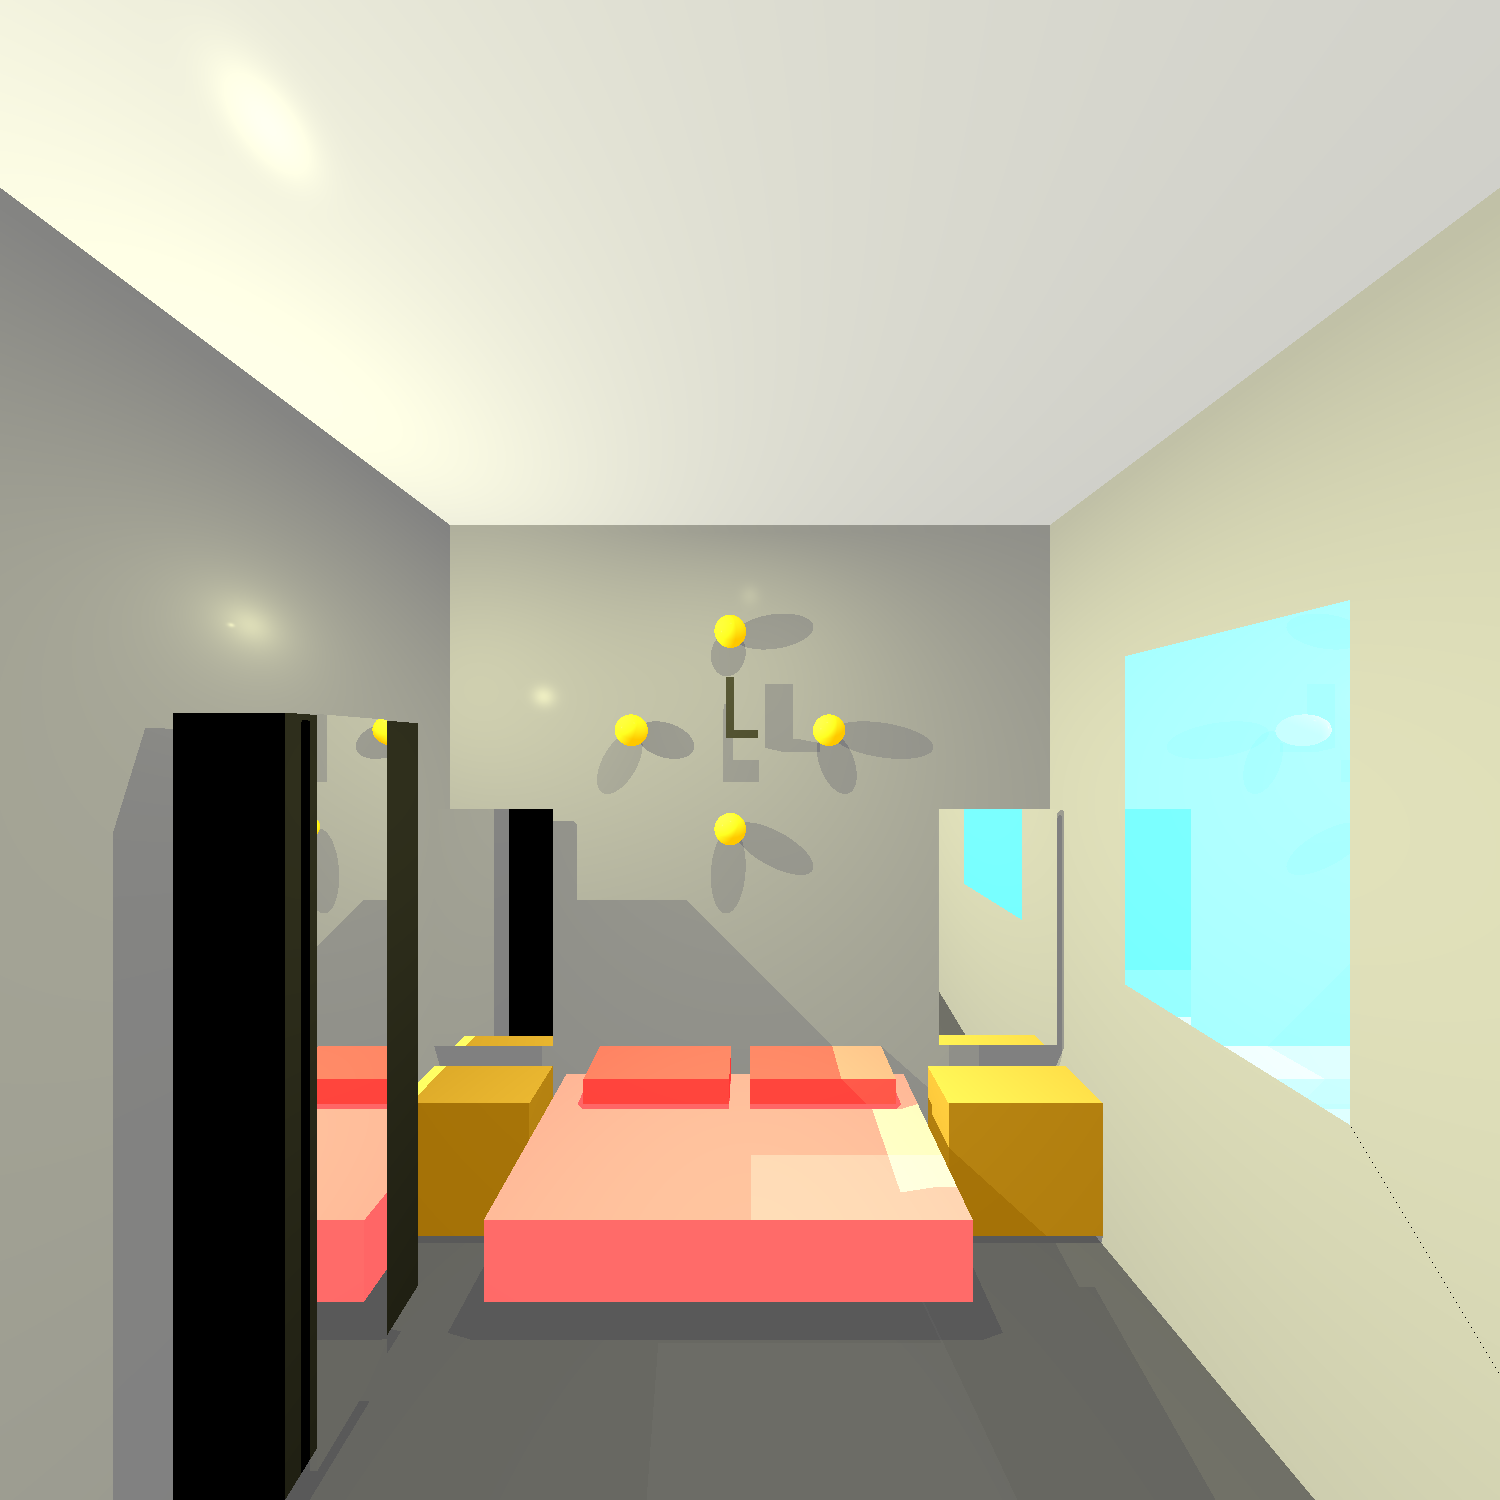
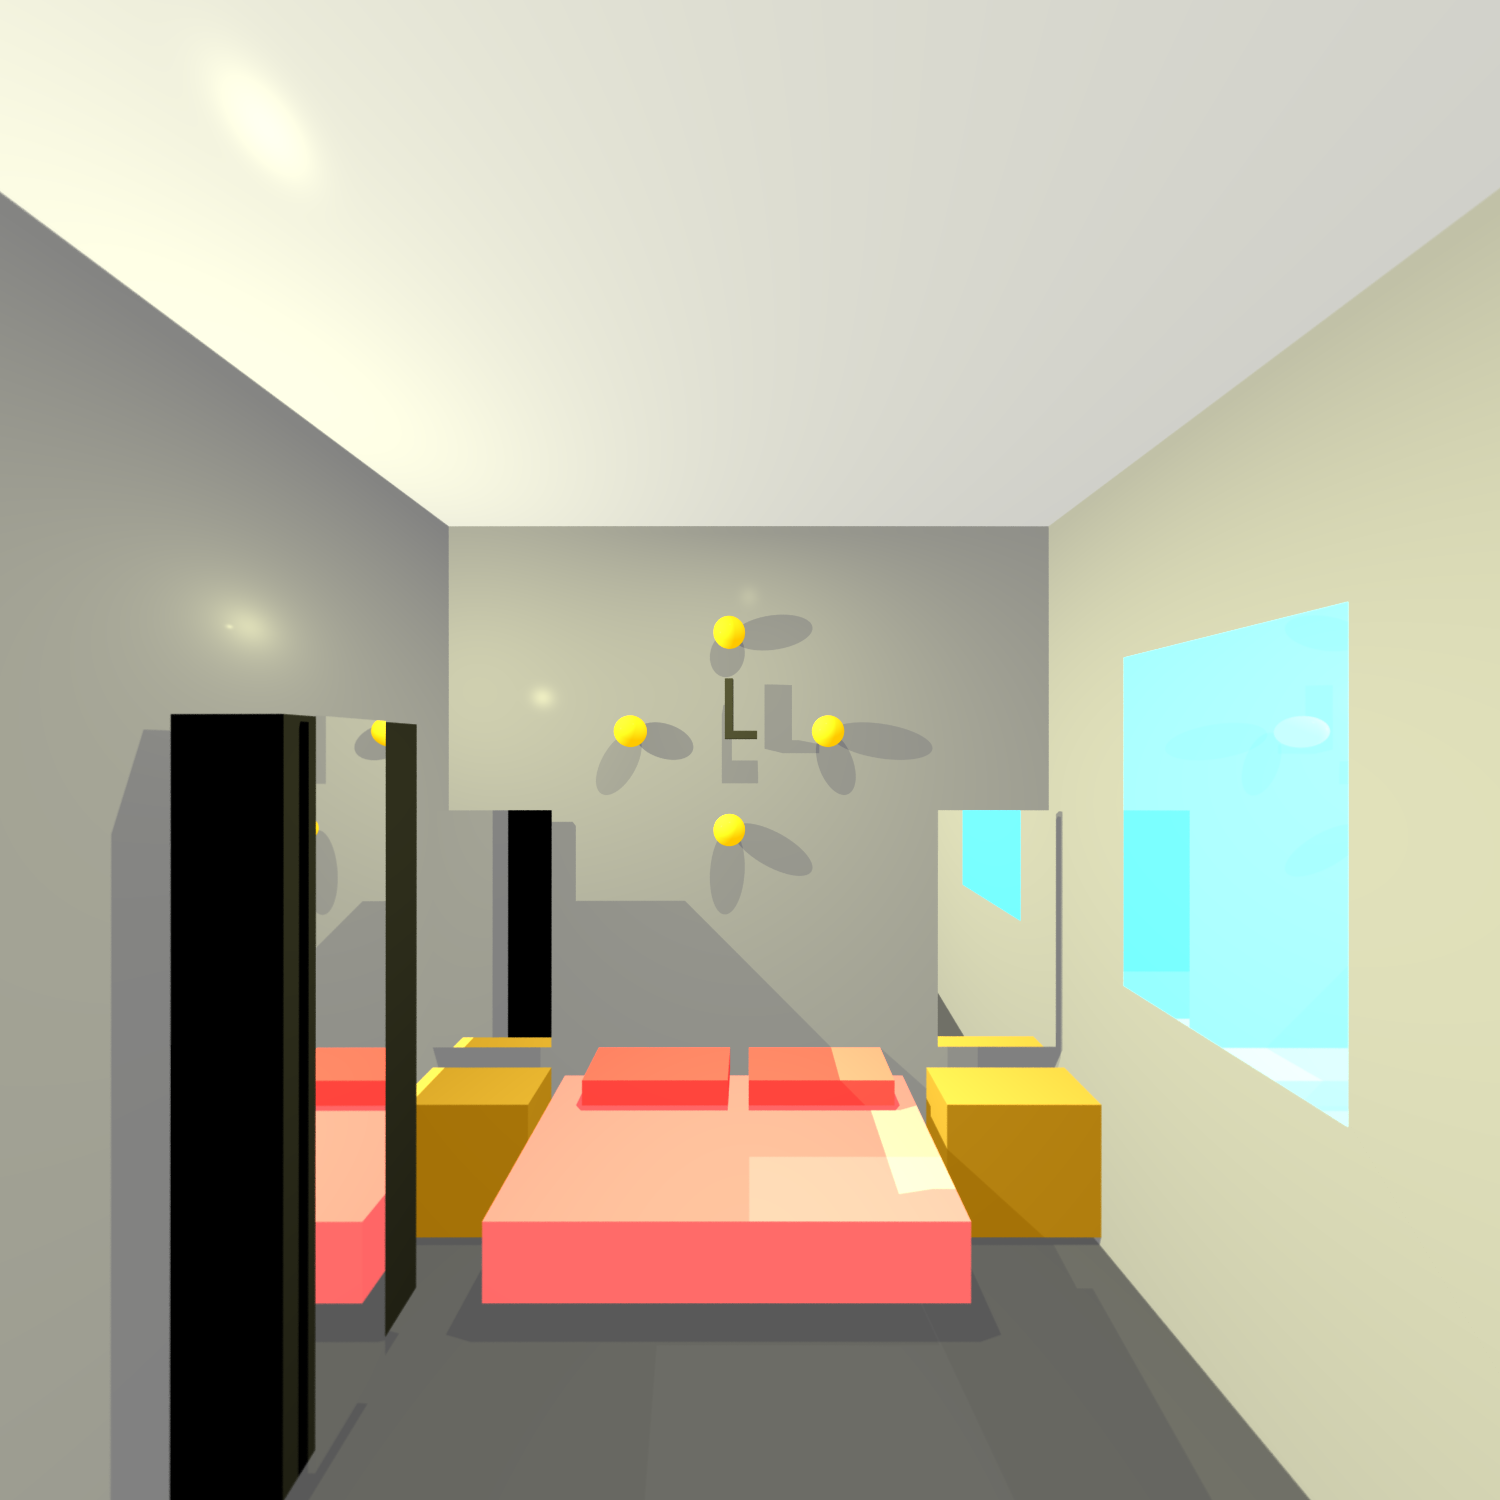
finish of minip 2: run-time improvement (multithreading and BVH)

diff --git a/unitTests/renderer/AntiAliasingTests.java b/unitTests/renderer/AntiAliasingTests.java
@@ -22,7 +22,7 @@ public class AntiAliasingTests {
     public void AA_test() {
 
 
-        int resolution = 1500, sampleperpixle = 81;
+        int resolution = 1000, sampleperpixle = 9;
         Camera camera = new Camera(new Point(0,-200,1000), new Vector(0, 1, 0), new Vector(0, 0, 1)) //
                 .setVPSize(400, 400).setVPDistance(100);
         camera.setNumberOfRaysInPixel(sampleperpixle); // Turn on/off the test by changing the amount
@@ -36,11 +36,21 @@ public class AntiAliasingTests {
         Color LightYellow = new Color(254,254,153);
 
         // spotlight in the middle of the ceiling direct to the floor
-        scene.getLights().add(new SpotLight(LightYellow, new Point(0, 400, 1580), new Vector(0, 0, -1)).setKc(1.6));
-        // pointLight in the left wall (above the closet) direct to the other wall
-        scene.getLights().add(new PointLight(LightYellow, new Point(-770, 400, 1200)).setKc(1.5));
+        scene.getLights().add(new SpotLight(LightYellow, new Point(0, 200, 1680), new Vector(0, 0, -1)).setKc(1.4).setRadius(30d));
+        Box cielinglight = new Box(500,30,250,new Point(-250,200,1580),new Color(YELLOW));
+
+
+        //bed spotlight's
+         scene.getLights().add(new SpotLight(LightYellow, new Point(200, 800, 400), new Vector(0, 0, -1)).setKc(1.25).setRadius(30d)); // right bed light
+        Sphere spotBedRight = new Sphere(new Point(200,800,400),40);
+        scene.getLights().add(new SpotLight(LightYellow, new Point(-300, 800, 400), new Vector(0, 0, -1)).setKc(1.25).setRadius(30d)); // left bed light
+        Sphere spotBedLeft = new Sphere(new Point(-300,800,400),40);
+
+     // pointLight in the left wall (above the closet) direct to the other wall
+        scene.getLights().add(new PointLight(LightYellow, new Point(-770, 400, 1200)).setKc(1.5).setRadius(30d));
+        Sphere pointSphere = new Sphere(new Point(-800,400,1200),40);
+
         // ball light
-//        scene.getLights().add(new PointLight(LightYellow, new Point(-0, 700, 600)).setKc(3));
         scene.getLights().add(new DirectionalLight(new Color(WHITE), new Vector(-0.75,0,-1)));
 
 
@@ -56,15 +66,18 @@ public class AntiAliasingTests {
         Material cube = new Material().setKd(0.6).setShininess(300).setKs(0.5);
         Material mirror = new Material().setKr(1);
         Material ball = new Material().setKd(0.5).setKs(0.5).setShininess(300);
+        Material lightBalls = new Material().setKt(0.9).setKd(0.9).setShininess(300);
 
-        Sphere s12 =  new Sphere(new Point(-50,750,1300),40);s12.setEmission(new Color(ORANGE)).setMaterial(ball);
-        Sphere s3 =  new Sphere(new Point(200,750,1050),40); s3.setEmission(new Color(ORANGE)).setMaterial(ball);
-        Sphere s6 =  new Sphere(new Point(-50,750,800),40);s6.setEmission(new Color(ORANGE)).setMaterial(ball);
-        Sphere s9 =  new Sphere(new Point(-300,750,1050),40);s9.setEmission(new Color(ORANGE)).setMaterial(ball);
+        // clock spheres
+        Sphere s12 =  new Sphere(new Point(-50,750,1300),40);s12.setEmission(new Color(200,0,0)).setMaterial(ball);
+        Sphere s3 =  new Sphere(new Point(200,750,1050),40); s3.setEmission(new Color(200,0,0)).setMaterial(ball);
+        Sphere s6 =  new Sphere(new Point(-50,750,800),40);s6.setEmission(new Color(200,0,0)).setMaterial(ball);
+        Sphere s9 =  new Sphere(new Point(-300,750,1050),40);s9.setEmission(new Color(200,0,0)).setMaterial(ball);
+
 
         scene.geometries.add( // walls of the room
                 new Polygon( M1,M2,M4,M3).setEmission(new Color(51,204,255))
-                        .setMaterial(new Material().setKt(0.2).setKd(0.3).setKr(0.3)), // window
+                        .setMaterial(new Material().setKt(0.4).setKd(0.3).setKr(0.3)), // window
                 new Polygon(A,M3,M1,C).setMaterial(walls).setEmission(new Color(GRAY)), // right wall
                 new Polygon(A,M3,M4,E).setMaterial(walls).setEmission(new Color(GRAY)), // right wall
                 new Polygon(E,M4,M2,F).setMaterial(walls).setEmission(new Color(GRAY)), // right wall
@@ -73,6 +86,10 @@ public class AntiAliasingTests {
                 new Polygon(E,F,H,G).setMaterial(walls).setEmission(new Color(GRAY)),// back wall
                 new Polygon(A,B,G,E).setMaterial(walls).setEmission(new Color(LIGHT_GRAY)), // ceiling
                 new Polygon(C,D,H,F).setMaterial(new Material().setKd(0.1)).setEmission(new Color(GRAY.darker())),// floor
+                pointSphere.setMaterial(lightBalls).setEmission(new Color(YELLOW)), // right wall light sphere
+                spotBedRight.setMaterial(lightBalls).setEmission(new Color(YELLOW)), // bed light sphere
+                spotBedLeft.setMaterial(lightBalls).setEmission(new Color(YELLOW)), // bed light sphere
+
                 s12, s3, s6, s9); // clock balls
 
         Box bedSideStandLeft = new Box(300,300,100,new Point(-800,650,-101),new Color( 153,102,0)),
@@ -109,27 +126,24 @@ public class AntiAliasingTests {
         for (Polygon rect: longhand.getGeo()) {scene.geometries.add(rect.setMaterial(new Material().setShininess(500).setKd(0.6).setKs(0.4)));}
         for (Polygon rect: shorthand.getGeo()) {scene.geometries.add(rect.setMaterial(new Material().setShininess(500).setKd(0.6).setKs(0.4)));}
 
+        for (Polygon rect: cielinglight.getGeo()) {scene.geometries.add(rect.setMaterial(new Material().setKt(0.9).setKd(0.9)));}
 
+
+        /* critic!*/
         scene.getGeometries().BuildBvhTree(); // build the auto bvh - critical for the run-time improvement
 
 
-        ImageWriter imageWriter = new ImageWriter("AA with 65aa 2000res", resolution, resolution);
+        ImageWriter imageWriter = new ImageWriter("final scene camera move right", resolution, resolution);
                 camera.setImageWriter(imageWriter)//.moveCamera(new Vector(-140, 80, 35)) //
                 .setImageWriter(imageWriter) //
-                .setRayTracer(new RayTracerBasic(scene))
-                .setMultithreading(0).setDebugPrint(0.1);
+                .setRayTracer(new RayTracerBasic(scene).setSoftShadow(true))
+               .setMultithreading(3);
+
+        camera.moveCamera(new Vector(150,50,0)).spinRightLeft(0.4).spin(0.7); // right angle photo
+//        camera.moveCamera(new Vector(-150,50,-200)).spinRightLeft(-0.45).spin(-1.6).spinUpDown(1);// left down photo
 
         camera.renderImage();
         camera.writeToImage();
-
-
-//        ImageWriter imageWriter3 = new ImageWriter("AA 65", resolution, resolution);
-//        camera3.setImageWriter(imageWriter3)//.moveCamera(new Vector(-140, 80, 35)) //
-//                .setRayTracer(new RayTracerBasic(scene));//turnAllBoxesOn())
-////                .setMultithreading(3).setDebugPrint();
-//
-//        camera3.renderImage();
-//        camera3.writeToImage();
     }
 
 }

diff --git a/src/renderer/Camera.java b/src/renderer/Camera.java
@@ -66,8 +66,9 @@ public class Camera {
         return number < 0 ? -1 : 1;
     }
 
-    public void setNumberOfRaysInPixel(int numberOfRaysInPixel) {
+    public Camera setNumberOfRaysInPixel(int numberOfRaysInPixel) {
         this.numberOfRaysInPixel = numberOfRaysInPixel;
+        return this;
     }
 
     //------------------getters------------------//
@@ -215,19 +216,24 @@ public class Camera {
             final int nY = imageWriter.getNy();
             pixelManager = new PixelManager(nY, nX, printInterval);
 
-            if (threadsCount == 0){
+            if (threadsCount == 0) {
                 for (int i = 0; i < nY; ++i)
-                    for (int j = 0; j < nX; ++j)
-                        castRay(nX, nY, j, i);}
+                    for (int j = 0; j < nX; ++j) {
+//                        System.out.println(i);
+                        castRay(nX, nY, j, i);
+                    }
+            }
             else { // see further... option 2
                 var threads = new LinkedList<Thread>(); // list of threads
                 while (threadsCount-- > 0) // add appropriate number of threads
                     threads.add(new Thread(() -> { // add a thread with its code
                         PixelManager.Pixel pixel; // current pixel(row,col)
                         // allocate pixel(row,col) in loop until there are no more pixels
-                        while ((pixel = pixelManager.nextPixel()) != null)
+                        while ((pixel = pixelManager.nextPixel()) != null){
                             // cast ray through pixel (and color it – inside castRay)
                             castRay(nX, nY, pixel.col(), pixel.row());
+                        System.out.println(pixel.col());
+                    }
                     }));
                 // start all the threads
                 for (var thread : threads) thread.start();
@@ -357,16 +363,12 @@ public class Camera {
 
 
     public List<Ray> constructRaysThroughPixel(int nX, int nY, int j, int i) {
-
         // the returned list of rays
         List<Ray> rays = new ArrayList<>();
-
         // add the center ray to the list
         Ray centerRay = constructRay(nX, nY, j, i);
         rays.add(centerRay);
-
-        // calculate the actual size of a pixel
-        // pixel height is the division of the view plane height in the number of rows of pixels
+        // calculate the actual size of a pixel. height is the div of the VP height in the number of rows of pixels
         double pixelHeight = alignZero(height / nY);   //  Ry = h/Ny
         // pixel width is the division of the view plane width in the number of columns of pixels
         double pixelWidth = alignZero(width / nX);   //  Rx = w/Nx
@@ -381,7 +383,6 @@ public class Camera {
                     pixelHeight)
             );
         }
-
         return rays;
     }
 

diff --git a/unitTests/renderer/SoftShadow.java b/unitTests/renderer/SoftShadow.java
@@ -36,7 +36,6 @@ public class SoftShadow {
                 .setKc(1).setKl(0.0004).setKq(0.0000006).setRadius(50d));
 
 //        scen.getGeometries().BuildBvhTree();
-//        scen.setbb();
 
         camera.setImageWriter(new ImageWriter("softShadow", 1500, 1500)) //
                 .renderImage() //
@@ -55,7 +54,7 @@ public class SoftShadow {
                 new Sphere(new Point(0, 0, 30), 30)
                         .setEmission(new Color(java.awt.Color.MAGENTA))
                         .setMaterial(new Material().setKd(0.4).setKs(0.3).setShininess(100).setKt(0.3).setKr(0)),
-                new Plane(new Point(0, 0, 0), new Vector(0,0,1))
+                new Polygon(new Point(-1000,-1000,0), new Point(1000,-1000,0), new Point(1000,1000,0), new Point(-1000,1000,0))
                         .setEmission(new Color(java.awt.Color.BLUE))
                         .setMaterial(new Material().setKd(0.4).setKs(0.3).setShininess(100).setKt(0.3).setKr(0)));
 

diff --git a/src/primitives/Ray.java b/src/primitives/Ray.java
@@ -168,11 +168,6 @@ public class Ray {
                     newRayStartPoint = newRayStartPoint.add(vUp.scale((j) * randomMoveY));
                 }
 
-//                // if we have reach the center point of the pixel
-//                if (i == raysInDimension / 2 && j == i) {
-//                    newRayStartPoint = pixelCenter;
-//                }
-
                 // make sure we do not add the canter ray more than once
                 if (!newRayStartPoint.equals(pixelCenter)) {
                     rays.add(new Ray(p0, (newRayStartPoint.subtract(p0)))); // normalized inside Ray constructor

diff --git a/src/geometries/Geometries.java b/src/geometries/Geometries.java
@@ -153,7 +153,6 @@ public class Geometries extends Container {
      * automated build bounding volume hierarchy tree
      */
     public void BuildBvhTree() {
-
         // flatten the list of Geometries
         this.flatten();
 
@@ -178,7 +177,6 @@ public class Geometries extends Container {
                         bestGeometry1 = geometry1;
                         bestGeometry2 = geometry2;
                     }
-
                 }
             }
             // after we have determined the best geometries to couple in a container,
